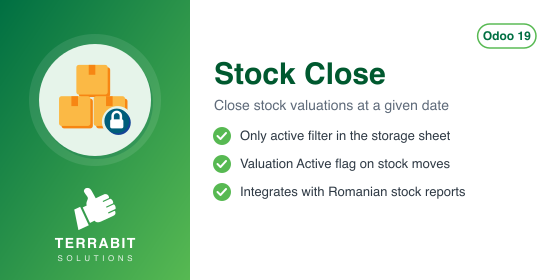
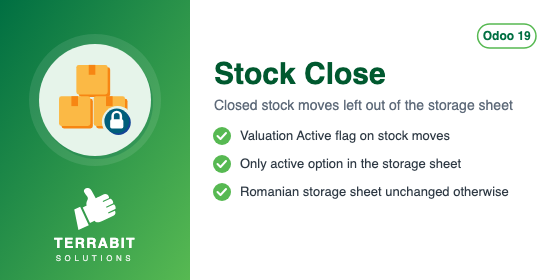
[IMP] deltatech_stock_close: Apps Store page written from the code
The "close at date" feature, which the module does not have, removed; the
Valuation Active flag and the Only active option of the Romanian storage sheet
described; Configuration and Usage added; Romanian translation in its own tab
(readme/*.ro.md); STC-001 in readme/bugs.md; English summary and banner
aligned.

diff --git a/deltatech_stock_close/static/description/index.html b/deltatech_stock_close/static/description/index.html
@@ -3,7 +3,7 @@
 <div class="text-center rounded-4 shadow px-4 pt-4 pb-3 mt-2 mb-4" style="background-color:#006F42;color:#ffffff;">
   <div class="mb-3"><span class="d-inline-block rounded-3 p-2" style="background-color:#ffffff;"><img src="icon.png" alt="Deltatech Stock Close" style="width:72px;height:72px;border:none;"/></span></div>
   <h1 class="fw-bold mb-3" style="color:#ffffff;font-size:42px;line-height:1.08;letter-spacing:-0.5px;border:none;">Deltatech Stock Close</h1>
-  <p class="mx-auto mb-4" style="font-size:19px;color:#cdeccf;max-width:620px;line-height:1.5;">Close stock operations at date</p>
+  <p class="mx-auto mb-4" style="font-size:19px;color:#cdeccf;max-width:620px;line-height:1.5;">Closed stock moves left out of the storage sheet</p>
   <div>
     <span class="d-inline-block rounded-pill fw-bold m-1" style="background-color:#00432a;color:#ffffff;padding:8px 16px;font-size:12px;">Odoo 19.0</span>
     <span class="d-inline-block rounded-pill fw-semibold m-1" style="background-color:#00432a;color:#ffffff;padding:8px 16px;font-size:12px;">Warehouse</span>
@@ -27,6 +27,21 @@
        style="padding:10px 22px;">Overview</a>
   </li>
   <li class="nav-item mx-1 mb-2">
+    <a class="nav-link fw-semibold rounded-pill border" id="tb-tab-configure"
+       data-bs-toggle="pill" data-bs-target="#tb-panel-configure" href="#tb-panel-configure"
+       style="padding:10px 22px;">Configuration</a>
+  </li>
+  <li class="nav-item mx-1 mb-2">
+    <a class="nav-link fw-semibold rounded-pill border" id="tb-tab-usage"
+       data-bs-toggle="pill" data-bs-target="#tb-panel-usage" href="#tb-panel-usage"
+       style="padding:10px 22px;">Usage</a>
+  </li>
+  <li class="nav-item mx-1 mb-2">
+    <a class="nav-link fw-semibold rounded-pill border" id="tb-tab-romana"
+       data-bs-toggle="pill" data-bs-target="#tb-panel-romana" href="#tb-panel-romana"
+       style="padding:10px 22px;">Rom&#226;n&#259;</a>
+  </li>
+  <li class="nav-item mx-1 mb-2">
     <a class="nav-link fw-semibold rounded-pill border" id="tb-tab-versions"
        data-bs-toggle="pill" data-bs-target="#tb-panel-versions" href="#tb-panel-versions"
        style="padding:10px 22px;">Versions</a>
@@ -35,16 +50,75 @@
 <div class="tab-content">
 <div class="tab-pane fade show active py-2" id="tb-panel-overview" style="font-size:16px;line-height:1.65;color:#212529;font-weight:400;">
 <h2 class="fw-bold mb-3" style="border:none;border-left:4px solid #57B952;padding-left:16px;font-size:24px;letter-spacing:-0.3px;line-height:1.2;">Overview</h2>
-<h1 class="fw-bold mt-4 mb-3" style="border:none;border-left:4px solid #57B952;padding-left:16px;font-size:24px;letter-spacing:-0.3px;line-height:1.2;">Stock Closing Operations</h1>
-<p class="mb-4" style="font-size:16px;line-height:1.65;max-width:780px;">This module provides tools for managing stock closing operations at a specific date.
-It helps maintain inventory accuracy by allowing users to mark stock move valuations as closed, so they can be excluded from the Romanian storage sheet after a certain period or when closing the fiscal year.</p>
-<h2 class="fw-bold mt-4 mb-3" style="border:none;border-left:4px solid #57B952;padding-left:16px;font-size:24px;letter-spacing:-0.3px;line-height:1.2;">Key Features</h2>
-<ul class="list-unstyled row row-cols-1 row-cols-md-2 g-2 mt-1 mb-4"><li class="col"><div class="border rounded-3 px-3 py-2 h-100 d-flex gap-2"><span class="flex-shrink-0 text-center fw-bold rounded d-inline-block" style="background-color:#57B952;color:#04331f;width:22px;height:22px;line-height:22px;font-size:13px;">&#10003;</span><div>Ability to close stock operations as of a given date.</div></div></li><li class="col"><div class="border rounded-3 px-3 py-2 h-100 d-flex gap-2"><span class="flex-shrink-0 text-center fw-bold rounded d-inline-block" style="background-color:#57B952;color:#04331f;width:22px;height:22px;line-height:22px;font-size:13px;">&#10003;</span><div>Adds a "Valuation Active" field on stock moves (Odoo 19 stores valuation on stock moves) for better visibility.</div></div></li><li class="col"><div class="border rounded-3 px-3 py-2 h-100 d-flex gap-2"><span class="flex-shrink-0 text-center fw-bold rounded d-inline-block" style="background-color:#57B952;color:#04331f;width:22px;height:22px;line-height:22px;font-size:13px;">&#10003;</span><div>Improves reporting performance by filtering out old or closed stock move valuations in the storage sheet ("Only active" option).</div></div></li><li class="col"><div class="border rounded-3 px-3 py-2 h-100 d-flex gap-2"><span class="flex-shrink-0 text-center fw-bold rounded d-inline-block" style="background-color:#57B952;color:#04331f;width:22px;height:22px;line-height:22px;font-size:13px;">&#10003;</span><div>Integration with Romanian localization stock reports.</div></div></li></ul>
-<h2 class="fw-bold mt-4 mb-3" style="border:none;border-left:4px solid #57B952;padding-left:16px;font-size:24px;letter-spacing:-0.3px;line-height:1.2;">Usage</h2>
-<ul class="list-unstyled row row-cols-1 row-cols-md-2 g-2 mt-1 mb-4"><li class="col"><div class="border rounded-3 px-3 py-2 h-100 d-flex gap-2"><span class="flex-shrink-0 text-center fw-bold rounded d-inline-block" style="background-color:#57B952;color:#04331f;width:22px;height:22px;line-height:22px;font-size:13px;">&#10003;</span><div>Go to Inventory &gt; Reporting &gt; Romanian Stock Storage Sheet.</div></div></li><li class="col"><div class="border rounded-3 px-3 py-2 h-100 d-flex gap-2"><span class="flex-shrink-0 text-center fw-bold rounded d-inline-block" style="background-color:#57B952;color:#04331f;width:22px;height:22px;line-height:22px;font-size:13px;">&#10003;</span><div>Enable the "Only active" option to exclude closed valuations from the report.</div></div></li><li class="col"><div class="border rounded-3 px-3 py-2 h-100 d-flex gap-2"><span class="flex-shrink-0 text-center fw-bold rounded d-inline-block" style="background-color:#57B952;color:#04331f;width:22px;height:22px;line-height:22px;font-size:13px;">&#10003;</span><div>Mark stock move valuations as closed (unset "Valuation Active") according to your business needs.</div></div></li></ul>
+<p class="mb-4" style="font-size:16px;line-height:1.65;max-width:780px;">Leaves closed stock moves out of the Romanian <strong>storage sheet</strong> (<em>fi&#537;a de magazie</em>, from the
+<code class="border rounded px-2" style="font-family:ui-monospace,SFMono-Regular,Menlo,Consolas,monospace;font-size:13px;">l10n_ro_stock_report</code> module of the Romanian localization): once a period or a fiscal year is closed,
+the storage sheet can be run on the stock moves that are still open only.</p>
+<ul class="list-unstyled row row-cols-1 row-cols-md-2 g-2 mt-1 mb-4"><li class="col"><div class="border rounded-3 px-3 py-2 h-100"><span class="fw-bold">Valuation Active flag</span><div>Each stock move gets a <strong>Valuation Active</strong> flag, on by default; a move
+  whose flag is off counts as closed. In Odoo 19 the valuation is kept on the stock move, so the flag
+  is set there.</div></div></li><li class="col"><div class="border rounded-3 px-3 py-2 h-100"><span class="fw-bold">Only active option</span><div>The storage sheet wizard gets an <strong>Only active</strong> option; when ticked, the
+  initial balance, the receipts, the deliveries and the final balance leave out the closed moves.</div></div></li><li class="col"><div class="border rounded-3 px-3 py-2 h-100"><span class="fw-bold">Report unchanged otherwise</span><div>With the option off, the storage sheet is exactly the one of the
+  Romanian localization; the stock moves themselves are never hidden elsewhere in Odoo.</div></div></li></ul>
+<p>The <strong>Valuation Active</strong> flag is not shown on the stock move form in this version: it is set by import
+or by a script.</p>
+<p><strong>Data sent outside Odoo:</strong> none.</p>
+</div>
+<div class="tab-pane fade py-2" id="tb-panel-configure" style="font-size:16px;line-height:1.65;color:#212529;font-weight:400;">
+<h2 class="fw-bold mb-3" style="border:none;border-left:4px solid #57B952;padding-left:16px;font-size:24px;letter-spacing:-0.3px;line-height:1.2;">Configuration</h2>
+<ol>
+<li>Install the module; it needs the storage sheet of the Romanian localization
+   (<code class="border rounded px-2" style="font-family:ui-monospace,SFMono-Regular,Menlo,Consolas,monospace;font-size:13px;">l10n_ro_stock_report</code>).</li>
+<li>Decide which stock moves count as closed (for instance every move of a closed fiscal year) and
+   untick <strong>Valuation Active</strong> on them, by import (<em>Inventory &gt; Reporting &gt; Moves History</em>, export and
+   import of the field) or by a script.</li>
+</ol>
+</div>
+<div class="tab-pane fade py-2" id="tb-panel-usage" style="font-size:16px;line-height:1.65;color:#212529;font-weight:400;">
+<h2 class="fw-bold mb-3" style="border:none;border-left:4px solid #57B952;padding-left:16px;font-size:24px;letter-spacing:-0.3px;line-height:1.2;">Usage</h2>
+<ol>
+<li>Open the storage sheet of the Romanian localization (<em>Inventory &gt; Reporting</em>).</li>
+<li>Tick <strong>Only active</strong> to leave the closed stock moves out; leave it unticked for the full report.</li>
+<li>Run the report as usual.</li>
+</ol>
+</div>
+<div class="tab-pane fade py-2" id="tb-panel-romana" style="font-size:16px;line-height:1.65;color:#212529;font-weight:400;">
+
+<h3 class="fw-bold mt-4 mb-3" style="border:none;border-left:4px solid #57B952;padding-left:16px;font-size:19px;letter-spacing:-0.3px;line-height:1.2;">Prezentare</h3>
+<p class="mb-4" style="font-size:16px;line-height:1.65;max-width:780px;">Scoate mi&#537;c&#259;rile de stoc &#238;nchise din <strong>fi&#537;a de magazie</strong> a localiz&#259;rii rom&#226;ne&#537;ti (modulul
+<code class="border rounded px-2" style="font-family:ui-monospace,SFMono-Regular,Menlo,Consolas,monospace;font-size:13px;">l10n_ro_stock_report</code>): dup&#259; &#238;nchiderea unei perioade sau a unui an fiscal, fi&#537;a de magazie se poate
+rula doar pe mi&#537;c&#259;rile de stoc &#238;nc&#259; deschise.</p>
+<ul class="list-unstyled row row-cols-1 row-cols-md-2 g-2 mt-1 mb-4"><li class="col"><div class="border rounded-3 px-3 py-2 h-100"><span class="fw-bold">Indicatorul Valuation Active</span><div>Fiecare mi&#537;care de stoc prime&#537;te indicatorul <strong>Valuation Active</strong>,
+  activ implicit; o mi&#537;care cu indicatorul dezactivat e considerat&#259; &#238;nchis&#259;. &#206;n Odoo 19 evaluarea se
+  &#539;ine pe mi&#537;carea de stoc, deci indicatorul st&#259; acolo.</div></div></li><li class="col"><div class="border rounded-3 px-3 py-2 h-100"><span class="fw-bold">Op&#539;iunea Only active</span><div>Asistentul fi&#537;ei de magazie prime&#537;te op&#539;iunea <strong>Only active</strong>; c&#226;nd e
+  bifat&#259;, soldul ini&#539;ial, intr&#259;rile, ie&#537;irile &#537;i soldul final nu mai iau &#238;n calcul mi&#537;c&#259;rile &#238;nchise.</div></div></li><li class="col"><div class="border rounded-3 px-3 py-2 h-100"><span class="fw-bold">Raportul r&#259;m&#226;ne altfel neschimbat</span><div>Cu op&#539;iunea nebifat&#259;, fi&#537;a de magazie e exact cea din
+  localizarea rom&#226;neasc&#259;; mi&#537;c&#259;rile de stoc nu sunt ascunse nic&#259;ieri altundeva &#238;n Odoo.</div></div></li></ul>
+<p>Indicatorul <strong>Valuation Active</strong> nu apare pe formularul mi&#537;c&#259;rii de stoc &#238;n aceast&#259; versiune: se seteaz&#259;
+prin import sau printr-un script.</p>
+<p><strong>Date trimise &#238;n afara Odoo:</strong> niciuna.</p>
+<h3 class="fw-bold mt-4 mb-3" style="border:none;border-left:4px solid #57B952;padding-left:16px;font-size:19px;letter-spacing:-0.3px;line-height:1.2;">Configurare</h3>
+<ol>
+<li>Instala&#539;i modulul; are nevoie de fi&#537;a de magazie din localizarea rom&#226;neasc&#259;
+   (<code class="border rounded px-2" style="font-family:ui-monospace,SFMono-Regular,Menlo,Consolas,monospace;font-size:13px;">l10n_ro_stock_report</code>).</li>
+<li>Stabili&#539;i ce mi&#537;c&#259;ri de stoc sunt &#238;nchise (de exemplu toate mi&#537;c&#259;rile unui an fiscal &#238;nchis) &#537;i
+   debifa&#539;i pe ele <strong>Valuation Active</strong>, prin import (<em>Inventar &gt; Raportare &gt; Istoric mi&#537;c&#259;ri</em>, export
+   &#537;i import al c&#226;mpului) sau printr-un script.</li>
+</ol>
+<h3 class="fw-bold mt-4 mb-3" style="border:none;border-left:4px solid #57B952;padding-left:16px;font-size:19px;letter-spacing:-0.3px;line-height:1.2;">Utilizare</h3>
+<ol>
+<li>Deschide&#539;i fi&#537;a de magazie a localiz&#259;rii rom&#226;ne&#537;ti (<em>Inventar &gt; Raportare</em>).</li>
+<li>Bifa&#539;i <strong>Only active</strong> ca s&#259; l&#259;sa&#539;i deoparte mi&#537;c&#259;rile de stoc &#238;nchise; l&#259;sa&#539;i-o nebifat&#259; pentru
+   raportul complet.</li>
+<li>Rula&#539;i raportul ca de obicei.</li>
+</ol>
 </div>
 <div class="tab-pane fade py-2" id="tb-panel-versions" style="font-size:16px;line-height:1.65;color:#212529;font-weight:400;">
 <h2 class="fw-bold mb-3" style="border:none;border-left:4px solid #57B952;padding-left:16px;font-size:24px;letter-spacing:-0.3px;line-height:1.2;">Versions</h2>
+<h2 class="fw-bold mt-4 mb-3" style="border:none;border-left:4px solid #57B952;padding-left:16px;font-size:24px;letter-spacing:-0.3px;line-height:1.2;">19.0.1.1.2 (2026-10-11)</h2>
+<ul>
+<li>Apps Store page: description written from the code (the "close at date" feature, which the module
+  does not have, removed; the Valuation Active flag and the Only active option of the storage sheet
+  described), Configuration and Usage added, and the Romanian translation in its own tab
+  (<code class="border rounded px-2" style="font-family:ui-monospace,SFMono-Regular,Menlo,Consolas,monospace;font-size:13px;">readme/*.ro.md</code>). Known bugs in <code class="border rounded px-2" style="font-family:ui-monospace,SFMono-Regular,Menlo,Consolas,monospace;font-size:13px;">readme/bugs.md</code>. English summary; banner aligned.</li>
+</ul>
 <h1 class="fw-bold mt-4 mb-3" style="border:none;border-left:4px solid #57B952;padding-left:16px;font-size:24px;letter-spacing:-0.3px;line-height:1.2;">19.0.1.1.1</h1>
 <ul>
 <li>Own module icon, instead of the generic gears it had.</li>

diff --git a/deltatech_stock_close/__manifest__.py b/deltatech_stock_close/__manifest__.py
@@ -3,8 +3,8 @@
 {
     "images": ["static/description/main_screenshot.png"],
     "name": "Deltatech Stock Close",
-    "summary": "Close stock operations at date",
-    "version": "19.0.1.1.1",
+    "summary": "Closed stock moves left out of the storage sheet",
+    "version": "19.0.1.1.2",
     "author": "Terrabit, Dorin Hongu, Dan Stoica",
     "website": "https://www.terrabit.ro",
     "support": "support@terrabit.ro",

diff --git a/deltatech_stock_close/readme/DESCRIPTION.md b/deltatech_stock_close/readme/DESCRIPTION.md
@@ -1,20 +1,16 @@
-Stock Closing Operations
-========================
+Leaves closed stock moves out of the Romanian **storage sheet** (*fișa de magazie*, from the
+`l10n_ro_stock_report` module of the Romanian localization): once a period or a fiscal year is closed,
+the storage sheet can be run on the stock moves that are still open only.
 
-This module provides tools for managing stock closing operations at a specific date.
-It helps maintain inventory accuracy by allowing users to mark stock move valuations as closed, so they can be excluded from the Romanian storage sheet after a certain period or when closing the fiscal year.
+- **Valuation Active flag**: Each stock move gets a **Valuation Active** flag, on by default; a move
+  whose flag is off counts as closed. In Odoo 19 the valuation is kept on the stock move, so the flag
+  is set there.
+- **Only active option**: The storage sheet wizard gets an **Only active** option; when ticked, the
+  initial balance, the receipts, the deliveries and the final balance leave out the closed moves.
+- **Report unchanged otherwise**: With the option off, the storage sheet is exactly the one of the
+  Romanian localization; the stock moves themselves are never hidden elsewhere in Odoo.
 
-Key Features
-------------
+The **Valuation Active** flag is not shown on the stock move form in this version: it is set by import
+or by a script.
 
-- Ability to close stock operations as of a given date.
-- Adds a "Valuation Active" field on stock moves (Odoo 19 stores valuation on stock moves) for better visibility.
-- Improves reporting performance by filtering out old or closed stock move valuations in the storage sheet ("Only active" option).
-- Integration with Romanian localization stock reports.
-
-Usage
------
-
-- Go to Inventory > Reporting > Romanian Stock Storage Sheet.
-- Enable the "Only active" option to exclude closed valuations from the report.
-- Mark stock move valuations as closed (unset "Valuation Active") according to your business needs.
+**Data sent outside Odoo:** none.

diff --git a/deltatech_stock_close/readme/DESCRIPTION.ro.md b/deltatech_stock_close/readme/DESCRIPTION.ro.md
@@ -1,0 +1,16 @@
+Scoate mișcările de stoc închise din **fișa de magazie** a localizării românești (modulul
+`l10n_ro_stock_report`): după închiderea unei perioade sau a unui an fiscal, fișa de magazie se poate
+rula doar pe mișcările de stoc încă deschise.
+
+- **Indicatorul Valuation Active**: Fiecare mișcare de stoc primește indicatorul **Valuation Active**,
+  activ implicit; o mișcare cu indicatorul dezactivat e considerată închisă. În Odoo 19 evaluarea se
+  ține pe mișcarea de stoc, deci indicatorul stă acolo.
+- **Opțiunea Only active**: Asistentul fișei de magazie primește opțiunea **Only active**; când e
+  bifată, soldul inițial, intrările, ieșirile și soldul final nu mai iau în calcul mișcările închise.
+- **Raportul rămâne altfel neschimbat**: Cu opțiunea nebifată, fișa de magazie e exact cea din
+  localizarea românească; mișcările de stoc nu sunt ascunse nicăieri altundeva în Odoo.
+
+Indicatorul **Valuation Active** nu apare pe formularul mișcării de stoc în această versiune: se setează
+prin import sau printr-un script.
+
+**Date trimise în afara Odoo:** niciuna.

diff --git a/deltatech_stock_close/readme/bugs.md b/deltatech_stock_close/readme/bugs.md
@@ -1,0 +1,16 @@
+# Known bugs
+
+Review date: 2026-10-11. Target version: Odoo 19.
+
+## STC-001 — P2: Stock moves cannot be closed from the interface
+
+- **Status:** Open. Found on 2026-10-11 while writing the Apps page.
+- **Location:** `models/stock_move.py` (`l10n_ro_valuation_active`); no view shows the field.
+- **Trigger:** A user wants to close the stock moves of a past period.
+- **Actual behavior / impact:** The field exists and the storage sheet filters on it, but it is on no
+  form, list or action, so it can only be changed by import or by a script. The former description
+  promised to "close stock operations as of a given date", which the module does not do.
+- **Suggested fix:** A wizard "Close stock moves until date" (and the field on the stock move list),
+  or at least the field in the *Moves History* list.
+- **Validation needed:** A user closes the moves until a date and the storage sheet with **Only active**
+  leaves them out.

diff --git a/deltatech_stock_close/readme/HISTORY.md b/deltatech_stock_close/readme/HISTORY.md
@@ -1,3 +1,10 @@
+## 19.0.1.1.2 (2026-10-11)
+
+- Apps Store page: description written from the code (the "close at date" feature, which the module
+  does not have, removed; the Valuation Active flag and the Only active option of the storage sheet
+  described), Configuration and Usage added, and the Romanian translation in its own tab
+  (`readme/*.ro.md`). Known bugs in `readme/bugs.md`. English summary; banner aligned.
+
 # 19.0.1.1.1
 
 - Own module icon, instead of the generic gears it had.

diff --git a/deltatech_stock_close/readme/CONFIGURE.ro.md b/deltatech_stock_close/readme/CONFIGURE.ro.md
@@ -1,0 +1,5 @@
+1. Instalați modulul; are nevoie de fișa de magazie din localizarea românească
+   (`l10n_ro_stock_report`).
+2. Stabiliți ce mișcări de stoc sunt închise (de exemplu toate mișcările unui an fiscal închis) și
+   debifați pe ele **Valuation Active**, prin import (*Inventar > Raportare > Istoric mișcări*, export
+   și import al câmpului) sau printr-un script.

diff --git a/deltatech_stock_close/readme/CONFIGURE.md b/deltatech_stock_close/readme/CONFIGURE.md
@@ -1,0 +1,5 @@
+1. Install the module; it needs the storage sheet of the Romanian localization
+   (`l10n_ro_stock_report`).
+2. Decide which stock moves count as closed (for instance every move of a closed fiscal year) and
+   untick **Valuation Active** on them, by import (*Inventory > Reporting > Moves History*, export and
+   import of the field) or by a script.

diff --git a/deltatech_stock_close/readme/USAGE.ro.md b/deltatech_stock_close/readme/USAGE.ro.md
@@ -1,0 +1,4 @@
+1. Deschideți fișa de magazie a localizării românești (*Inventar > Raportare*).
+2. Bifați **Only active** ca să lăsați deoparte mișcările de stoc închise; lăsați-o nebifată pentru
+   raportul complet.
+3. Rulați raportul ca de obicei.

diff --git a/deltatech_stock_close/readme/USAGE.md b/deltatech_stock_close/readme/USAGE.md
@@ -1,0 +1,3 @@
+1. Open the storage sheet of the Romanian localization (*Inventory > Reporting*).
+2. Tick **Only active** to leave the closed stock moves out; leave it unticked for the full report.
+3. Run the report as usual.
